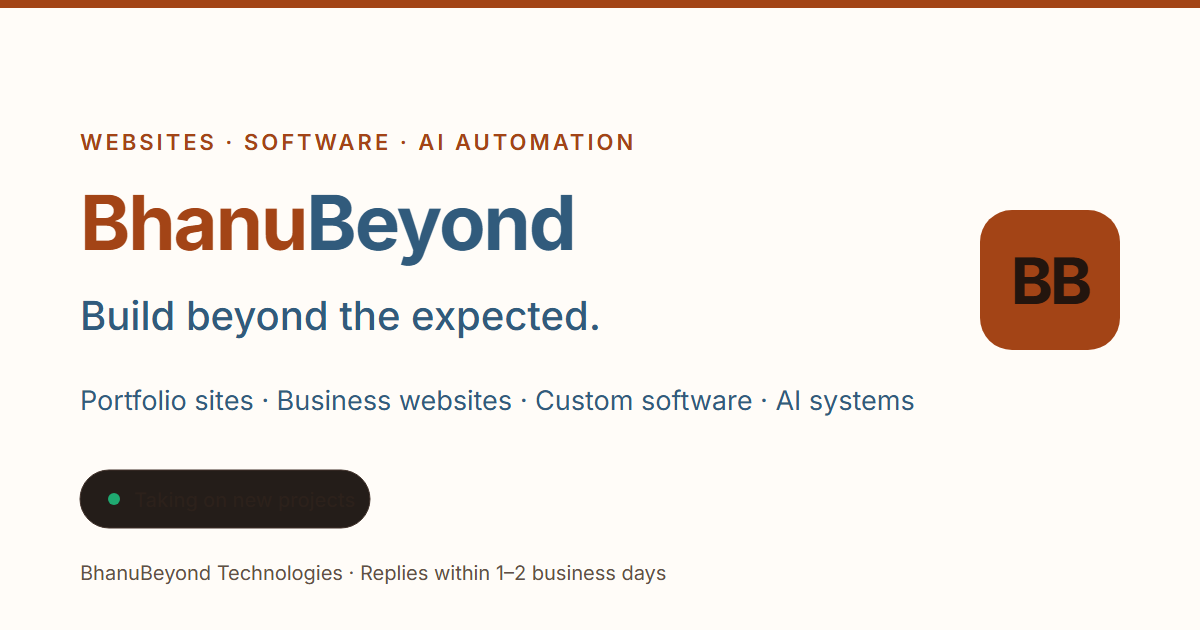
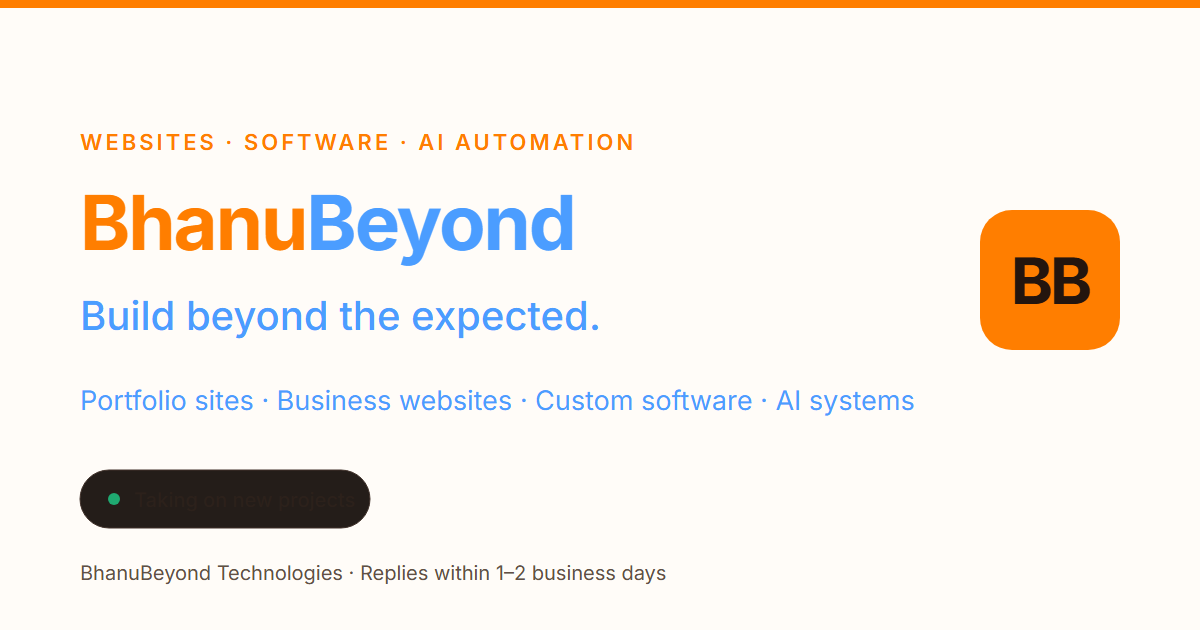
Match orange and blue branding to supplied palette

diff --git a/src/components/Insights/Insights.css b/src/components/Insights/Insights.css
@@ -1,14 +1,14 @@
 .insights-page { width: min(1120px, 100%); margin: 0 auto; padding: clamp(52px, 8vw, 100px) clamp(24px, 4vw, 72px) clamp(72px, 10vw, 120px); }
-.insights-hero { position: relative; max-width: 850px; padding: clamp(18px, 3vw, 34px) 0 clamp(26px, 4vw, 46px); }.insights-hero::after { position: absolute; right: 3%; bottom: 0; width: clamp(88px, 15vw, 156px); height: 1px; background: linear-gradient(90deg, var(--accent), transparent); content: ''; }.insights-hero h1, .article h1 { margin-top: 14px; font-size: clamp(2.45rem, 5.4vw, 4.8rem); letter-spacing: -.055em; }.insights-hero > p { max-width: 62ch; margin-top: 20px; color: var(--text-secondary); font-size: 1.1rem; line-height: 1.75; }.insights-hero-note { display: inline-flex; align-items: center; gap: 9px; margin-top: 28px; padding: 9px 14px; border: 1px solid var(--border); border-radius: 100px; background: var(--bg-alt); color: var(--text-muted); font-size: .82rem; }.insights-hero-note span { color: var(--accent-2); }
-.insight-list { display: grid; gap: 18px; margin-top: clamp(44px, 7vw, 76px); }.insight-list-label { color: var(--text-muted); font: 600 .68rem var(--font-mono); letter-spacing: .15em; text-transform: uppercase; }.insight-featured { position: relative; display: grid; grid-template-columns: minmax(120px, .42fr) 1.58fr; gap: clamp(25px, 6vw, 72px); overflow: hidden; padding: clamp(28px, 5vw, 54px); background: var(--panel-gradient); border: 0; border-radius: 18px; color: #fff; box-shadow: var(--shadow-lift); }.insight-featured::after { position: absolute; inset: auto -8% -82% auto; width: 340px; aspect-ratio: 1; border: 1px solid rgba(255,255,255,.25); border-radius: 50%; content: ''; }.insight-featured-orb { display: grid; place-items: center; align-self: center; width: clamp(94px, 12vw, 126px); aspect-ratio: 1; border: 1px solid rgba(255,255,255,.34); border-radius: 50%; background: radial-gradient(circle at 35% 30%, rgba(255,255,255,.42), transparent 48%); color: rgba(255,255,255,.84); font: 500 clamp(1.25rem, 2.5vw, 2rem) var(--font-mono); }.insight-featured-content { position: relative; z-index: 1; }.insight-meta { display: flex; flex-wrap: wrap; gap: 10px 16px; color: var(--text-muted); font: 600 .7rem var(--font-mono); letter-spacing: .08em; text-transform: uppercase; }.insight-featured .insight-meta { color: rgba(255,255,255,.72); }.insight-featured h2 { max-width: 20ch; margin-top: 18px; font-size: clamp(1.8rem, 3.7vw, 3rem); letter-spacing: -.045em; }.insight-featured p { max-width: 57ch; margin-top: 15px; color: rgba(255,255,255,.83); line-height: 1.75; }.insight-grid { display: grid; grid-template-columns: repeat(2, minmax(0, 1fr)); gap: 18px; }.insight-card { position: relative; min-height: 285px; padding: clamp(24px, 4vw, 38px); border-top: 3px solid var(--accent); background: var(--panel-gradient); }.insight-card:nth-child(2) { border-color: var(--accent-2); }.insight-card-top { display: flex; justify-content: space-between; gap: 16px; }.insight-number { color: var(--border-strong); font: 500 1.1rem var(--font-mono); }.insight-card h2 { max-width: 25ch; margin-top: 30px; font-size: clamp(1.35rem, 2.4vw, 1.8rem); }.insight-card p { max-width: 58ch; margin-top: 12px; color: var(--text-secondary); line-height: 1.7; }.insight-read-link, .article-back { display: inline-flex; margin-top: 22px; align-items: center; gap: 8px; color: var(--accent); font-weight: 650; }.insight-read-link span { transition: transform .2s var(--ease-out); }.insight-read-link:hover span { transform: translateX(4px); }.insight-card .insight-read-link { position: absolute; bottom: 30px; }
+.insights-hero { position: relative; max-width: 850px; padding: clamp(18px, 3vw, 34px) 0 clamp(26px, 4vw, 46px); }.insights-hero::after { position: absolute; right: 3%; bottom: 0; width: clamp(88px, 15vw, 156px); height: 1px; background: linear-gradient(90deg, var(--accent), transparent); content: ''; }.insights-hero h1, .article h1 { margin-top: 14px; font-size: clamp(2.45rem, 5.4vw, 4.8rem); letter-spacing: -.055em; }.insights-hero > p { max-width: 62ch; margin-top: 20px; color: var(--text-secondary); font-size: 1.1rem; line-height: 1.75; }.insights-hero-note { display: inline-flex; align-items: center; gap: 9px; margin-top: 28px; padding: 9px 14px; border: 1px solid var(--border); border-radius: 100px; background: var(--bg-alt); color: var(--text-muted); font-size: .82rem; }.insights-hero-note span { color: var(--accent-2-text); }
+.insight-list { display: grid; gap: 18px; margin-top: clamp(44px, 7vw, 76px); }.insight-list-label { color: var(--text-muted); font: 600 .68rem var(--font-mono); letter-spacing: .15em; text-transform: uppercase; }.insight-featured { position: relative; display: grid; grid-template-columns: minmax(120px, .42fr) 1.58fr; gap: clamp(25px, 6vw, 72px); overflow: hidden; padding: clamp(28px, 5vw, 54px); background: var(--panel-gradient); border: 0; border-radius: 18px; color: #fff; box-shadow: var(--shadow-lift); }.insight-featured::after { position: absolute; inset: auto -8% -82% auto; width: 340px; aspect-ratio: 1; border: 1px solid rgba(255,255,255,.25); border-radius: 50%; content: ''; }.insight-featured-orb { display: grid; place-items: center; align-self: center; width: clamp(94px, 12vw, 126px); aspect-ratio: 1; border: 1px solid rgba(255,255,255,.34); border-radius: 50%; background: radial-gradient(circle at 35% 30%, rgba(255,255,255,.42), transparent 48%); color: rgba(255,255,255,.84); font: 500 clamp(1.25rem, 2.5vw, 2rem) var(--font-mono); }.insight-featured-content { position: relative; z-index: 1; }.insight-meta { display: flex; flex-wrap: wrap; gap: 10px 16px; color: var(--text-muted); font: 600 .7rem var(--font-mono); letter-spacing: .08em; text-transform: uppercase; }.insight-featured .insight-meta { color: rgba(255,255,255,.72); }.insight-featured h2 { max-width: 20ch; margin-top: 18px; font-size: clamp(1.8rem, 3.7vw, 3rem); letter-spacing: -.045em; }.insight-featured p { max-width: 57ch; margin-top: 15px; color: rgba(255,255,255,.83); line-height: 1.75; }.insight-grid { display: grid; grid-template-columns: repeat(2, minmax(0, 1fr)); gap: 18px; }.insight-card { position: relative; min-height: 285px; padding: clamp(24px, 4vw, 38px); border-top: 3px solid var(--accent); background: var(--panel-gradient); }.insight-card:nth-child(2) { border-color: var(--accent-2); }.insight-card-top { display: flex; justify-content: space-between; gap: 16px; }.insight-number { color: var(--border-strong); font: 500 1.1rem var(--font-mono); }.insight-card h2 { max-width: 25ch; margin-top: 30px; font-size: clamp(1.35rem, 2.4vw, 1.8rem); }.insight-card p { max-width: 58ch; margin-top: 12px; color: var(--text-secondary); line-height: 1.7; }.insight-read-link, .article-back { display: inline-flex; margin-top: 22px; align-items: center; gap: 8px; color: var(--accent-text); font-weight: 650; }.insight-read-link span { transition: transform .2s var(--ease-out); }.insight-read-link:hover span { transform: translateX(4px); }.insight-card .insight-read-link { position: absolute; bottom: 30px; }
 .article { max-width: 760px; margin: 0 auto; }.article .insight-meta { margin-top: 34px; }.article h1 { margin-top: 18px; }.article-lead { margin-top: 22px; color: var(--text-secondary); font-size: 1.16rem; line-height: 1.8; }.article section { margin-top: 42px; }.article section h2 { font-size: clamp(1.45rem, 2.8vw, 2.1rem); }.article section p { margin-top: 15px; color: var(--text-secondary); line-height: 1.8; }.article section ul { display: grid; gap: 10px; margin: 18px 0 0 20px; color: var(--text-secondary); line-height: 1.7; }.article-cta { margin-top: 58px; padding: clamp(24px, 5vw, 42px); background: var(--panel-gradient); }.article-cta h2 { margin-top: 12px; font-size: clamp(1.45rem, 3vw, 2.1rem); }.article-cta > p:not(.section-label) { margin-top: 12px; color: var(--text-secondary); line-height: 1.7; }.article-cta > div { display: flex; flex-wrap: wrap; gap: 12px; margin-top: 22px; }
 
 .insight-featured { background: var(--panel-gradient); border: 1px solid var(--border-strong); color: var(--text-primary); box-shadow: var(--shadow-hover); }
-.insight-featured::after { border-color: rgba(255, 154, 87, .16); }
-.insight-featured-orb { border-color: var(--border-strong); background: radial-gradient(circle at 35% 30%, var(--surface), var(--accent-soft) 65%); color: var(--accent); }
-.insight-featured .insight-meta { color: var(--accent); }
+.insight-featured::after { border-color: rgba(255, 126, 0, .16); }
+.insight-featured-orb { border-color: var(--border-strong); background: radial-gradient(circle at 35% 30%, var(--surface), var(--accent-soft) 65%); color: var(--accent-text); }
+.insight-featured .insight-meta { color: var(--accent-text); }
 .insight-featured p { color: var(--text-secondary); }
-.insight-featured .insight-read-link { color: var(--accent); }
+.insight-featured .insight-read-link { color: var(--accent-text); }
 .insight-card { display: flex; flex-direction: column; }
 .insight-card .insight-read-link { position: static; margin-top: auto; padding-top: 22px; }
 

diff --git a/src/components/Home/Home.css b/src/components/Home/Home.css
@@ -18,8 +18,8 @@
   inset: -20% -10% auto -10%;
   height: 620px;
   background:
-    radial-gradient(420px 320px at 18% 22%, rgba(255, 154, 87, 0.2), transparent 70%),
-    radial-gradient(460px 340px at 82% 8%, rgba(49, 91, 124, 0.12), transparent 72%);
+    radial-gradient(420px 320px at 18% 22%, rgba(255, 126, 0, 0.2), transparent 70%),
+    radial-gradient(460px 340px at 82% 8%, rgba(75, 157, 255, 0.12), transparent 72%);
   filter: blur(8px);
   pointer-events: none;
   z-index: 0;
@@ -49,7 +49,7 @@
   font-size: 0.8rem;
   letter-spacing: 0.12em;
   text-transform: uppercase;
-  color: var(--accent);
+  color: var(--accent-text);
   margin-bottom: 14px;
 }
 
@@ -201,7 +201,7 @@
 }
 
 .hero-text-link:hover {
-  color: var(--accent);
+  color: var(--accent-text);
   border-color: var(--accent);
 }
 
@@ -210,7 +210,7 @@
   padding: clamp(22px, 3vw, 36px);
   background: var(--panel-gradient);
   border-color: var(--border-strong);
-  box-shadow: 0 24px 56px -26px rgba(255, 154, 87, 0.38), 0 8px 22px -14px rgba(0, 0, 0, 0.18);
+  box-shadow: 0 24px 56px -26px rgba(255, 126, 0, 0.38), 0 8px 22px -14px rgba(0, 0, 0, 0.18);
   overflow: hidden;
 }
 
@@ -222,7 +222,7 @@
   right: -86px;
   top: -86px;
   border-radius: 50%;
-  background: radial-gradient(circle, rgba(49, 91, 124, 0.14), rgba(49, 91, 124, 0));
+  background: radial-gradient(circle, rgba(75, 157, 255, 0.14), rgba(75, 157, 255, 0));
   pointer-events: none;
 }
 
@@ -273,7 +273,7 @@
 }
 
 .hero-summary li span {
-  color: var(--accent);
+  color: var(--accent-text);
   font-family: var(--font-mono);
   font-size: .75rem;
 }
@@ -416,7 +416,7 @@
 .avail-link {
   font-family: var(--font-mono);
   font-size: 0.8rem;
-  color: var(--accent);
+  color: var(--accent-text);
   border-bottom: 1px solid var(--accent);
 }
 
@@ -560,7 +560,7 @@
   font-family: var(--font-mono);
   font-weight: 600;
   font-size: 0.75rem;
-  color: var(--accent);
+  color: var(--accent-text);
 }
 
 .timeline-top {
@@ -584,7 +584,7 @@
 
 .timeline-company {
   margin-top: 4px;
-  color: var(--accent);
+  color: var(--accent-text);
   font-weight: 500;
   font-size: 0.95rem;
 }
@@ -690,7 +690,7 @@
 }
 
 .solution-index {
-  color: var(--accent);
+  color: var(--accent-text);
   font-family: var(--font-mono);
   font-size: 0.76rem;
   letter-spacing: 0.08em;
@@ -725,7 +725,7 @@
 .solution-link {
   display: inline-flex;
   margin-top: 22px;
-  color: var(--accent);
+  color: var(--accent-text);
   font-size: .88rem;
   font-weight: 600;
   border-bottom: 1px solid transparent;
@@ -740,7 +740,7 @@
   border: 1px dashed var(--border-strong);
   border-radius: 999px;
   background: transparent;
-  color: var(--accent);
+  color: var(--accent-text);
   font: 600 0.72rem var(--font-mono);
   cursor: pointer;
 }
@@ -794,7 +794,7 @@
 }
 
 .insight-preview-item a, .insights-all-link {
-  color: var(--accent);
+  color: var(--accent-text);
   font-size: .88rem;
   font-weight: 600;
   white-space: nowrap;
@@ -839,7 +839,7 @@
   place-items: center;
   border-radius: 50%;
   background: var(--accent-soft);
-  color: var(--accent);
+  color: var(--accent-text);
   font-size: 0.75rem;
 }
 
@@ -870,7 +870,7 @@
 }
 
 .pricing-price {
-  color: var(--accent);
+  color: var(--accent-text);
   font-size: 1.35rem;
   font-weight: 700;
   letter-spacing: -0.02em;
@@ -897,7 +897,7 @@
 
 .pricing-start strong {
   flex: 0 0 auto;
-  color: var(--accent);
+  color: var(--accent-text);
   font-size: 0.88rem;
   letter-spacing: -0.01em;
 }
@@ -1081,7 +1081,7 @@
 
 .next-tag {
   align-self: flex-start;
-  color: var(--accent);
+  color: var(--accent-text);
   background: var(--accent-soft);
   border-color: var(--accent-soft);
 }
@@ -1147,7 +1147,7 @@
 }
 
 .learning-item-title:hover {
-  color: var(--accent);
+  color: var(--accent-text);
 }
 
 .learning-item-tech {
@@ -1165,7 +1165,7 @@
 
 /* Contact */
 .contact-inline-link {
-  color: var(--accent);
+  color: var(--accent-text);
   font-weight: 500;
   border-bottom: 1px solid var(--accent);
 }

diff --git a/src/components/Services/ServicePage.css b/src/components/Services/ServicePage.css
@@ -4,18 +4,18 @@
 .service-intro { max-width: 64ch; margin-top: 24px; color: var(--text-secondary); font-size: clamp(1.05rem, 1.8vw, 1.25rem); line-height: 1.75; }
 .service-actions { display: flex; flex-wrap: wrap; align-items: center; gap: 22px; margin-top: 30px; }
 .service-back { color: var(--text-secondary); font-weight: 600; border-bottom: 1px solid var(--border-strong); padding: 7px 0; }
-.service-back:hover { color: var(--accent); border-color: var(--accent); }
-.service-price { display: inline-block; margin-top: 30px; padding: 9px 13px; border: 1px solid var(--border); border-radius: 999px; background: var(--accent-soft); color: var(--accent); font: 600 .78rem var(--font-mono); letter-spacing: .03em; }
+.service-back:hover { color: var(--accent-text); border-color: var(--accent); }
+.service-price { display: inline-block; margin-top: 30px; padding: 9px 13px; border: 1px solid var(--border); border-radius: 999px; background: var(--accent-soft); color: var(--accent-text); font: 600 .78rem var(--font-mono); letter-spacing: .03em; }
 .service-section { margin-top: clamp(64px, 9vw, 110px); }
 .service-section h2, .service-cta h2 { font-size: clamp(1.7rem, 3.4vw, 2.7rem); }
 .service-grid { display: grid; grid-template-columns: repeat(3, minmax(0, 1fr)); gap: 16px; margin-top: 28px; }
 .service-card { min-height: 190px; padding: 24px; }
-.service-card span { color: var(--accent); font: 600 .72rem var(--font-mono); letter-spacing: .08em; }
+.service-card span { color: var(--accent-text); font: 600 .72rem var(--font-mono); letter-spacing: .08em; }
 .service-card p { margin-top: 32px; color: var(--text-secondary); line-height: 1.65; }
 .service-includes { padding: clamp(28px, 5vw, 52px); border-top: 1px solid var(--border); border-bottom: 1px solid var(--border); }
 .service-includes ul { display: grid; gap: 14px; margin-top: 26px; list-style: none; }
 .service-includes li { position: relative; padding-left: 24px; color: var(--text-secondary); line-height: 1.6; }
-.service-includes li::before { content: '✓'; position: absolute; left: 0; color: var(--accent); font-weight: 700; }
+.service-includes li::before { content: '✓'; position: absolute; left: 0; color: var(--accent-text); font-weight: 700; }
 .service-faqs { margin-top: 26px; border-top: 1px solid var(--border); }
 .service-faqs details { padding: 20px 0; border-bottom: 1px solid var(--border); }
 .service-faqs summary { cursor: pointer; color: var(--text-primary); font-weight: 600; }

diff --git a/src/index.css b/src/index.css
@@ -1,9 +1,9 @@
-/* Warm ivory surfaces with ember and muted steel blue branding */
+/* Warm ivory surfaces with orange and blue branding */
 
 :root {
   color-scheme: light;
-  --accent-hover: #85360f;
-  --on-accent: #ffffff;
+  --accent-hover: #ed7100;
+  --on-accent: #2c211b;
   --error-bg: #fff0ed;
   --error-border: #c56b5d;
   --error-text: #a12d20;
@@ -16,15 +16,17 @@
   --text-primary: #2c211b;
   --text-secondary: #625044;
   --text-muted: #786455;
-  --accent: #a34416;
-  --accent-2: #315b7c;
-  --accent-2-hover: #24445e;
-  --accent-2-soft: #edf3f7;
+  --accent: #ff7e00;
+  --accent-text: #a34400;
+  --accent-2-text: #245a99;
+  --accent-2: #4b9dff;
+  --accent-2-hover: #245a99;
+  --accent-2-soft: #edf5ff;
   --accent-soft: #fcebdc;
   --accent-gradient: linear-gradient(100deg, var(--accent), var(--accent-2));
   --shadow-sm: 0 1px 2px rgba(0, 0, 0, 0.04);
-  --shadow-hover: 0 14px 34px -10px rgba(214, 101, 44, 0.18), 0 3px 10px rgba(0, 0, 0, 0.06);
-  --shadow-lift: 0 22px 54px -14px rgba(214, 101, 44, 0.22), 0 5px 14px rgba(0, 0, 0, 0.08);
+  --shadow-hover: 0 14px 34px -10px rgba(255, 126, 0, 0.18), 0 3px 10px rgba(0, 0, 0, 0.06);
+  --shadow-lift: 0 22px 54px -14px rgba(255, 126, 0, 0.22), 0 5px 14px rgba(0, 0, 0, 0.08);
   --font-sans: Inter, ui-sans-serif, system-ui, -apple-system, BlinkMacSystemFont, 'Segoe UI', sans-serif;
   --font-mono: 'SFMono-Regular', Consolas, 'Liberation Mono', monospace;
   --radius-lg: 14px;
@@ -167,7 +169,7 @@ select:focus-visible {
 .glass-btn--secondary {
   background: var(--accent-2-soft);
   border-color: var(--accent-2);
-  color: var(--accent-2);
+  color: var(--accent-2-text);
 }
 
 .glass-btn--secondary:hover {
@@ -196,7 +198,7 @@ select:focus-visible {
   font-weight: 500;
   letter-spacing: 0.12em;
   text-transform: uppercase;
-  color: var(--accent);
+  color: var(--accent-text);
 }
 
 .section-title {

diff --git a/public/404.html b/public/404.html
@@ -12,11 +12,11 @@
       body { margin: 0; min-height: 100vh; display: grid; place-items: center; padding: 24px; color: #2c211b; background: #fffcf8; font: 400 16px/1.65 Inter, system-ui, -apple-system, BlinkMacSystemFont, "Segoe UI", sans-serif; }
       main { width: min(100%, 760px); }
       .brand { display: inline-block; margin-bottom: 72px; color: #2c211b; text-decoration: none; font-weight: 700; letter-spacing: -.04em; font-size: 1.15rem; }
-      .code { color: #a34416; font: 500 .78rem/1.4 Consolas, monospace; letter-spacing: .12em; text-transform: uppercase; }
+      .code { color: #a34400; font: 500 .78rem/1.4 Consolas, monospace; letter-spacing: .12em; text-transform: uppercase; }
       h1 { margin: 14px 0 10px; font-size: clamp(2.8rem, 8vw, 5.5rem); line-height: 1.04; letter-spacing: -.06em; }
       p { margin: 0; color: #625044; font-size: 1.05rem; }
-      a.home { display: inline-flex; margin-top: 32px; padding: 13px 22px; border-radius: 999px; background: #a34416; color: #ffffff; text-decoration: none; font-weight: 600; }
-      a.home:focus-visible { outline: 3px solid #a34416; outline-offset: 4px; }
+      a.home { display: inline-flex; margin-top: 32px; padding: 13px 22px; border-radius: 999px; background: #ff7e00; color: #2c211b; text-decoration: none; font-weight: 600; }
+      a.home:focus-visible { outline: 3px solid #ff7e00; outline-offset: 4px; }
     </style>
   </head>
   <body>

diff --git a/src/components/CookieConsent/CookieConsent.css b/src/components/CookieConsent/CookieConsent.css
@@ -17,7 +17,7 @@
 .cookie-consent-copy { flex: 1; }
 .cookie-consent-copy strong { color: var(--text-primary); }
 .cookie-consent-copy p { margin-top: 4px; color: var(--text-secondary); font-size: .84rem; line-height: 1.5; }
-.cookie-consent-copy a { display: inline-block; margin-top: 6px; color: var(--accent); font-size: .82rem; text-decoration: underline; text-underline-offset: 2px; }
+.cookie-consent-copy a { display: inline-block; margin-top: 6px; color: var(--accent-text); font-size: .82rem; text-decoration: underline; text-underline-offset: 2px; }
 .cookie-consent-actions { display: flex; flex-direction: column; gap: 8px; flex-shrink: 0; }
 .cookie-consent-actions button { min-height: 40px; padding: 8px 14px; border: 1px solid var(--border-strong); border-radius: 999px; background: var(--surface); color: var(--text-primary); font: inherit; font-size: .82rem; font-weight: 600; cursor: pointer; }
 .cookie-consent-actions button:hover { border-color: var(--text-primary); }

diff --git a/index.html b/index.html
@@ -2,9 +2,9 @@
 <html lang="en">
   <head>
     <meta charset="UTF-8" />
-    <link rel="icon" type="image/svg+xml" href="/favicon.svg?v=4" sizes="any" />
-    <link rel="shortcut icon" href="/favicon.svg?v=4" />
-    <link rel="apple-touch-icon" href="/favicon.svg?v=4" />
+    <link rel="icon" type="image/svg+xml" href="/favicon.svg?v=5" sizes="any" />
+    <link rel="shortcut icon" href="/favicon.svg?v=5" />
+    <link rel="apple-touch-icon" href="/favicon.svg?v=5" />
     <link rel="preconnect" href="https://res.cloudinary.com" crossorigin />
     <meta name="viewport" content="width=device-width, initial-scale=1.0" />
     <meta name="theme-color" content="#fffcf8" />

diff --git a/src/components/Footer/Footer.css b/src/components/Footer/Footer.css
@@ -51,9 +51,9 @@
 }
 
 .footer-nav button:hover {
-  color: var(--accent);
+  color: var(--accent-text);
 }
 
 .footer-nav a:hover {
-  color: var(--accent);
+  color: var(--accent-text);
 }

diff --git a/src/components/WorkWithMe/WorkWithMe.css b/src/components/WorkWithMe/WorkWithMe.css
@@ -80,7 +80,7 @@
 .wwm-card-inner h3 {
   font-size: 0.9rem;
   font-weight: 600;
-  color: var(--accent);
+  color: var(--accent-text);
   margin-bottom: 8px;
 }
 

diff --git a/src/components/Legal/LegalPage.css b/src/components/Legal/LegalPage.css
@@ -38,7 +38,7 @@
 }
 
 .legal-copy a {
-  color: var(--accent);
+  color: var(--accent-text);
   text-decoration: underline;
   text-underline-offset: 3px;
 }

diff --git a/src/components/AIChat/AIChat.css b/src/components/AIChat/AIChat.css
@@ -137,7 +137,7 @@
 }
 
 .ai-error-fallback a {
-  color: var(--accent);
+  color: var(--accent-text);
   border-bottom: 1px solid var(--accent);
 }
 

diff --git a/src/components/ContactForm/ContactForm.css b/src/components/ContactForm/ContactForm.css
@@ -22,7 +22,7 @@
 }
 
 .contact-form-required {
-  color: var(--accent);
+  color: var(--accent-text);
 }
 
 .contact-form-input {
